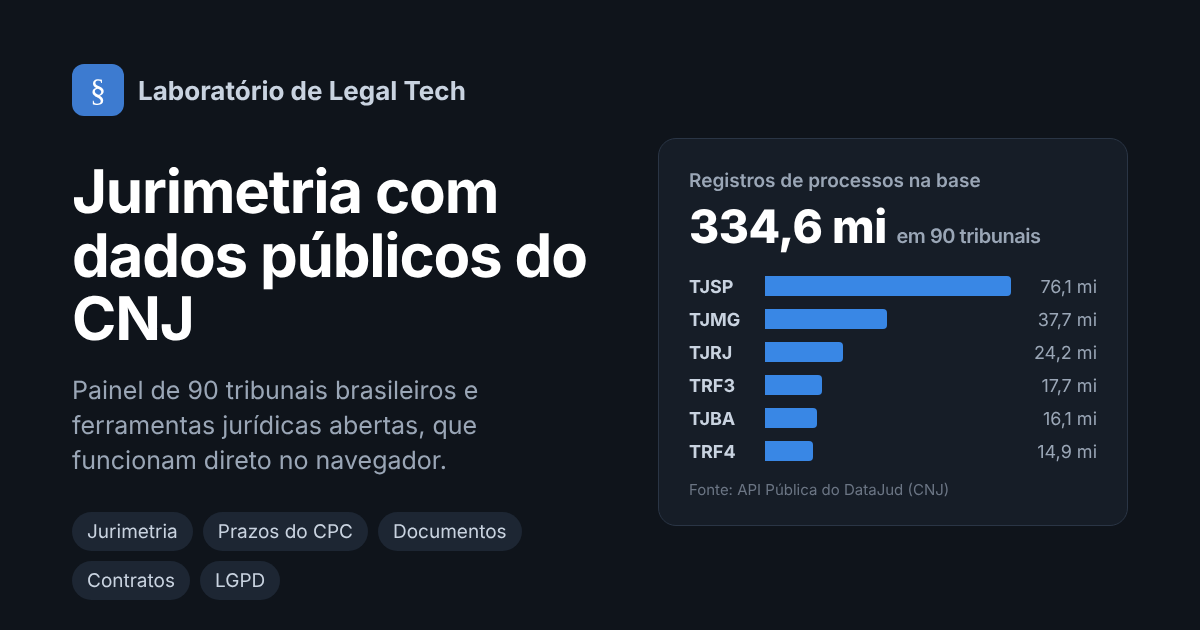
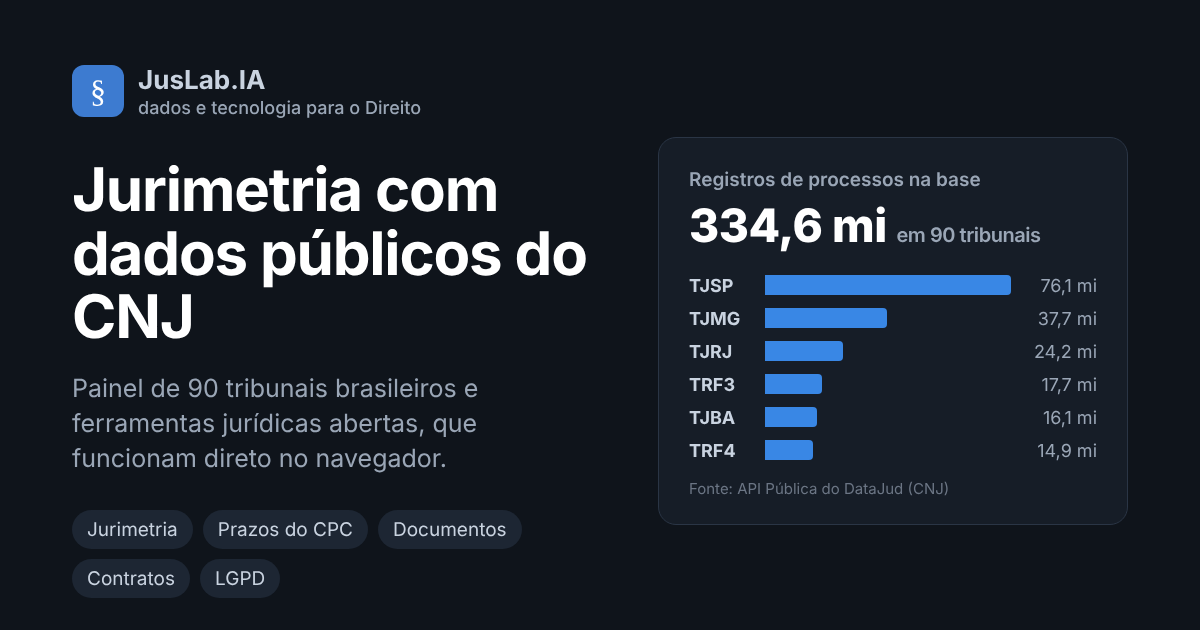
Renomeia o site para JusLab.IA
Nome novo com o subtítulo "dados e tecnologia para o Direito" no
cabeçalho, na página inicial, nos títulos e prévias de compartilhamento
(og.png refeita), no README, na página Sobre e no PRODID do .ics.
No celular, o botão de tema volta para a direita do cabeçalho.

Claude-Session: https://claude.ai/code/session_01G249qRGpUaRkBSdfc1K5pR

diff --git a/sobre/index.html b/sobre/index.html
@@ -4,18 +4,18 @@
   <meta charset="utf-8">
   <meta name="viewport" content="width=device-width, initial-scale=1">
   <title>Sobre o projeto</title>
-  <meta name="description" content="Como o Laboratório de Legal Tech foi construído: arquitetura, metodologia da jurimetria com dados do DataJud (CNJ), limitações dos dados e privacidade.">
+  <meta name="description" content="Como o JusLab.IA foi construído: arquitetura, metodologia da jurimetria com dados do DataJud (CNJ), limitações dos dados e privacidade.">
   <link rel="canonical" href="https://langcasagrande.github.io/dashboard-jurimetria/sobre/">
   <meta property="og:type" content="website">
   <meta property="og:locale" content="pt_BR">
-  <meta property="og:site_name" content="Laboratório de Legal Tech">
-  <meta property="og:title" content="Sobre o projeto · Laboratório de Legal Tech">
-  <meta property="og:description" content="Como o Laboratório de Legal Tech foi construído: arquitetura, metodologia da jurimetria com dados do DataJud (CNJ), limitações dos dados e privacidade.">
+  <meta property="og:site_name" content="JusLab.IA">
+  <meta property="og:title" content="Sobre o projeto · JusLab.IA">
+  <meta property="og:description" content="Como o JusLab.IA foi construído: arquitetura, metodologia da jurimetria com dados do DataJud (CNJ), limitações dos dados e privacidade.">
   <meta property="og:url" content="https://langcasagrande.github.io/dashboard-jurimetria/sobre/">
   <meta property="og:image" content="https://langcasagrande.github.io/dashboard-jurimetria/assets/og.png">
   <meta property="og:image:width" content="1200">
   <meta property="og:image:height" content="630">
-  <meta property="og:image:alt" content="Laboratório de Legal Tech: jurimetria com dados públicos do CNJ">
+  <meta property="og:image:alt" content="JusLab.IA: jurimetria com dados públicos do CNJ">
   <meta name="twitter:card" content="summary_large_image">
   <script>try{const t=localStorage.getItem('tema');if(t)document.documentElement.dataset.theme=t}catch(e){}</script>
   <link rel="stylesheet" href="../assets/css/style.css">
@@ -36,7 +36,7 @@
   <main class="prosa">
     <section class="page-head">
       <h1>Sobre o projeto</h1>
-      <p>O Laboratório de Legal Tech reúne seis ferramentas jurídicas abertas, construídas como projeto de estudo e portfólio na interseção entre Direito e tecnologia. Todas funcionam direto no navegador, sem cadastro.</p>
+      <p>O JusLab.IA (dados e tecnologia para o Direito) reúne seis ferramentas jurídicas abertas, construídas como projeto de estudo e portfólio na interseção entre Direito e tecnologia. Todas funcionam direto no navegador, sem cadastro.</p>
       <ul class="indice-pagina">
         <li><a href="#ferramentas">Ferramentas</a></li>
         <li><a href="#arquitetura">Como funciona</a></li>

diff --git a/index.html b/index.html
@@ -3,19 +3,19 @@
 <head>
   <meta charset="utf-8">
   <meta name="viewport" content="width=device-width, initial-scale=1">
-  <title>Laboratório de Legal Tech</title>
+  <title>JusLab.IA · Dados e tecnologia para o Direito</title>
   <meta name="description" content="Ferramentas jurídicas abertas: jurimetria com dados do CNJ, calculadora de prazos do CPC, gerador de documentos, analisador de contratos, assistente de legislação e kit LGPD.">
   <link rel="canonical" href="https://langcasagrande.github.io/dashboard-jurimetria/">
   <meta property="og:type" content="website">
   <meta property="og:locale" content="pt_BR">
-  <meta property="og:site_name" content="Laboratório de Legal Tech">
-  <meta property="og:title" content="Laboratório de Legal Tech">
+  <meta property="og:site_name" content="JusLab.IA">
+  <meta property="og:title" content="JusLab.IA · Dados e tecnologia para o Direito">
   <meta property="og:description" content="Ferramentas jurídicas abertas: jurimetria com dados do CNJ, calculadora de prazos do CPC, gerador de documentos, analisador de contratos, assistente de legislação e kit LGPD.">
   <meta property="og:url" content="https://langcasagrande.github.io/dashboard-jurimetria/">
   <meta property="og:image" content="https://langcasagrande.github.io/dashboard-jurimetria/assets/og.png">
   <meta property="og:image:width" content="1200">
   <meta property="og:image:height" content="630">
-  <meta property="og:image:alt" content="Laboratório de Legal Tech: jurimetria com dados públicos do CNJ">
+  <meta property="og:image:alt" content="JusLab.IA: jurimetria com dados públicos do CNJ">
   <meta name="twitter:card" content="summary_large_image">
   <script>try{const t=localStorage.getItem('tema');if(t)document.documentElement.dataset.theme=t}catch(e){}</script>
   <link rel="stylesheet" href="assets/css/style.css">
@@ -23,7 +23,8 @@
 <body data-base="./" data-page="inicio">
   <main>
     <section class="page-head">
-      <h1>Laboratório de Legal Tech</h1>
+      <h1>JusLab.IA</h1>
+      <p class="tagline">Dados e tecnologia para o Direito</p>
       <p>Seis ferramentas jurídicas abertas, feitas para estudo e portfólio. Os dados que você digita ficam no seu navegador. Nada é enviado a um servidor, salvo quando você usa os recursos de IA com a sua própria chave. <a href="sobre/">Saiba como o projeto foi feito.</a></p>
     </section>
 

diff --git a/assets/css/style.css b/assets/css/style.css
@@ -1,4 +1,4 @@
-/* Laboratório de Legal Tech — estilos compartilhados */
+/* JusLab.IA — estilos compartilhados */
 :root {
   --bg: #f6f7f9;
   --surface: #ffffff;
@@ -53,12 +53,16 @@ code { font-family: var(--mono); font-size: .9em; background: var(--surface-2); 
 .topbar { position: sticky; top: 0; z-index: 10; background: var(--surface); border-bottom: 1px solid var(--border); }
 .topbar-inner { max-width: 1180px; margin: 0 auto; display: flex; align-items: center; gap: 1rem; padding: .6rem 16px; }
 .brand { display: flex; align-items: center; gap: .55rem; font-weight: 700; color: var(--text); text-decoration: none; white-space: nowrap; }
+.brand-text { display: flex; flex-direction: column; line-height: 1.15; }
+.brand-text small { font-weight: 400; font-size: .72rem; color: var(--muted); }
+.tagline { font-size: 1.05rem; color: var(--primary) !important; font-weight: 600; margin: -.2rem 0 .6rem; }
 .brand-mark { width: 30px; height: 30px; border-radius: 8px; background: var(--primary); color: var(--primary-ink); display: grid; place-items: center; font-size: 16px; }
 .nav { display: flex; gap: .15rem; flex: 1; overflow-x: auto; scrollbar-width: none; }
 .nav::-webkit-scrollbar { display: none; }
 .nav a { padding: .45rem .7rem; border-radius: 8px; color: var(--muted); text-decoration: none; white-space: nowrap; font-size: .92rem; }
 .nav a:hover { background: var(--surface-2); color: var(--text); }
 .nav a[aria-current="page"] { background: var(--primary-soft); color: var(--primary); font-weight: 600; }
+.topbar-inner > .icon-btn { margin-left: auto; }
 .icon-btn { border: 1px solid var(--border); background: var(--surface); color: var(--text); border-radius: 8px; width: 36px; height: 36px; cursor: pointer; font-size: 16px; flex: none; }
 @media (max-width: 760px) {
   .topbar-inner { flex-wrap: wrap; }

diff --git a/jurimetria/index.html b/jurimetria/index.html
@@ -8,14 +8,14 @@
   <link rel="canonical" href="https://langcasagrande.github.io/dashboard-jurimetria/jurimetria/">
   <meta property="og:type" content="website">
   <meta property="og:locale" content="pt_BR">
-  <meta property="og:site_name" content="Laboratório de Legal Tech">
-  <meta property="og:title" content="Dashboard de Jurimetria · Laboratório de Legal Tech">
+  <meta property="og:site_name" content="JusLab.IA">
+  <meta property="og:title" content="Dashboard de Jurimetria · JusLab.IA">
   <meta property="og:description" content="Estatísticas de processos de 90 tribunais brasileiros com dados públicos do CNJ (DataJud): volume, ajuizamentos por ano e por mês, classes, assuntos, órgãos julgadores e comparação entre tribunais.">
   <meta property="og:url" content="https://langcasagrande.github.io/dashboard-jurimetria/jurimetria/">
   <meta property="og:image" content="https://langcasagrande.github.io/dashboard-jurimetria/assets/og.png">
   <meta property="og:image:width" content="1200">
   <meta property="og:image:height" content="630">
-  <meta property="og:image:alt" content="Laboratório de Legal Tech: jurimetria com dados públicos do CNJ">
+  <meta property="og:image:alt" content="JusLab.IA: jurimetria com dados públicos do CNJ">
   <meta name="twitter:card" content="summary_large_image">
   <script>try{const t=localStorage.getItem('tema');if(t)document.documentElement.dataset.theme=t}catch(e){}</script>
   <link rel="stylesheet" href="../assets/css/style.css">

diff --git a/contratos/index.html b/contratos/index.html
@@ -8,14 +8,14 @@
   <link rel="canonical" href="https://langcasagrande.github.io/dashboard-jurimetria/contratos/">
   <meta property="og:type" content="website">
   <meta property="og:locale" content="pt_BR">
-  <meta property="og:site_name" content="Laboratório de Legal Tech">
-  <meta property="og:title" content="Analisador de Contratos · Laboratório de Legal Tech">
+  <meta property="og:site_name" content="JusLab.IA">
+  <meta property="og:title" content="Analisador de Contratos · JusLab.IA">
   <meta property="og:description" content="Aponta cláusulas de risco em contratos (multa, juros, renovação automática, foro, arbitragem, limitação de responsabilidade) com fundamento legal e sugestão de redação.">
   <meta property="og:url" content="https://langcasagrande.github.io/dashboard-jurimetria/contratos/">
   <meta property="og:image" content="https://langcasagrande.github.io/dashboard-jurimetria/assets/og.png">
   <meta property="og:image:width" content="1200">
   <meta property="og:image:height" content="630">
-  <meta property="og:image:alt" content="Laboratório de Legal Tech: jurimetria com dados públicos do CNJ">
+  <meta property="og:image:alt" content="JusLab.IA: jurimetria com dados públicos do CNJ">
   <meta name="twitter:card" content="summary_large_image">
   <script>try{const t=localStorage.getItem('tema');if(t)document.documentElement.dataset.theme=t}catch(e){}</script>
   <link rel="stylesheet" href="../assets/css/style.css">

diff --git a/documentos/index.html b/documentos/index.html
@@ -8,14 +8,14 @@
   <link rel="canonical" href="https://langcasagrande.github.io/dashboard-jurimetria/documentos/">
   <meta property="og:type" content="website">
   <meta property="og:locale" content="pt_BR">
-  <meta property="og:site_name" content="Laboratório de Legal Tech">
-  <meta property="og:title" content="Gerador de Documentos · Laboratório de Legal Tech">
+  <meta property="og:site_name" content="JusLab.IA">
+  <meta property="og:title" content="Gerador de Documentos · JusLab.IA">
   <meta property="og:description" content="Gere procuração, substabelecimento, contrato de honorários, notificação extrajudicial e declaração de hipossuficiência prontos para imprimir ou baixar em Word.">
   <meta property="og:url" content="https://langcasagrande.github.io/dashboard-jurimetria/documentos/">
   <meta property="og:image" content="https://langcasagrande.github.io/dashboard-jurimetria/assets/og.png">
   <meta property="og:image:width" content="1200">
   <meta property="og:image:height" content="630">
-  <meta property="og:image:alt" content="Laboratório de Legal Tech: jurimetria com dados públicos do CNJ">
+  <meta property="og:image:alt" content="JusLab.IA: jurimetria com dados públicos do CNJ">
   <meta name="twitter:card" content="summary_large_image">
   <script>try{const t=localStorage.getItem('tema');if(t)document.documentElement.dataset.theme=t}catch(e){}</script>
   <link rel="stylesheet" href="../assets/css/style.css">

diff --git a/prazos/index.html b/prazos/index.html
@@ -8,14 +8,14 @@
   <link rel="canonical" href="https://langcasagrande.github.io/dashboard-jurimetria/prazos/">
   <meta property="og:type" content="website">
   <meta property="og:locale" content="pt_BR">
-  <meta property="og:site_name" content="Laboratório de Legal Tech">
-  <meta property="og:title" content="Calculadora de Prazos · Laboratório de Legal Tech">
+  <meta property="og:site_name" content="JusLab.IA">
+  <meta property="og:title" content="Calculadora de Prazos · JusLab.IA">
   <meta property="og:description" content="Calcula prazos processuais em dias úteis conforme o CPC, com feriados, recesso de 20/12 a 20/01, prazo em dobro e intimação pelo DJe ou portal.">
   <meta property="og:url" content="https://langcasagrande.github.io/dashboard-jurimetria/prazos/">
   <meta property="og:image" content="https://langcasagrande.github.io/dashboard-jurimetria/assets/og.png">
   <meta property="og:image:width" content="1200">
   <meta property="og:image:height" content="630">
-  <meta property="og:image:alt" content="Laboratório de Legal Tech: jurimetria com dados públicos do CNJ">
+  <meta property="og:image:alt" content="JusLab.IA: jurimetria com dados públicos do CNJ">
   <meta name="twitter:card" content="summary_large_image">
   <script>try{const t=localStorage.getItem('tema');if(t)document.documentElement.dataset.theme=t}catch(e){}</script>
   <link rel="stylesheet" href="../assets/css/style.css">

diff --git a/legislacao/index.html b/legislacao/index.html
@@ -8,14 +8,14 @@
   <link rel="canonical" href="https://langcasagrande.github.io/dashboard-jurimetria/legislacao/">
   <meta property="og:type" content="website">
   <meta property="og:locale" content="pt_BR">
-  <meta property="og:site_name" content="Laboratório de Legal Tech">
-  <meta property="og:title" content="Assistente de Legislação · Laboratório de Legal Tech">
+  <meta property="og:site_name" content="JusLab.IA">
+  <meta property="og:title" content="Assistente de Legislação · JusLab.IA">
   <meta property="og:description" content="Pergunte sobre a legislação brasileira e receba respostas com o artigo citado e o link para o texto oficial no Planalto.">
   <meta property="og:url" content="https://langcasagrande.github.io/dashboard-jurimetria/legislacao/">
   <meta property="og:image" content="https://langcasagrande.github.io/dashboard-jurimetria/assets/og.png">
   <meta property="og:image:width" content="1200">
   <meta property="og:image:height" content="630">
-  <meta property="og:image:alt" content="Laboratório de Legal Tech: jurimetria com dados públicos do CNJ">
+  <meta property="og:image:alt" content="JusLab.IA: jurimetria com dados públicos do CNJ">
   <meta name="twitter:card" content="summary_large_image">
   <script>try{const t=localStorage.getItem('tema');if(t)document.documentElement.dataset.theme=t}catch(e){}</script>
   <link rel="stylesheet" href="../assets/css/style.css">

diff --git a/lgpd/index.html b/lgpd/index.html
@@ -8,14 +8,14 @@
   <link rel="canonical" href="https://langcasagrande.github.io/dashboard-jurimetria/lgpd/">
   <meta property="og:type" content="website">
   <meta property="og:locale" content="pt_BR">
-  <meta property="og:site_name" content="Laboratório de Legal Tech">
-  <meta property="og:title" content="Kit LGPD · Laboratório de Legal Tech">
+  <meta property="og:site_name" content="JusLab.IA">
+  <meta property="og:title" content="Kit LGPD · JusLab.IA">
   <meta property="og:description" content="Checklist de adequação à LGPD com nota de maturidade e gerador de política de privacidade para pequenas empresas.">
   <meta property="og:url" content="https://langcasagrande.github.io/dashboard-jurimetria/lgpd/">
   <meta property="og:image" content="https://langcasagrande.github.io/dashboard-jurimetria/assets/og.png">
   <meta property="og:image:width" content="1200">
   <meta property="og:image:height" content="630">
-  <meta property="og:image:alt" content="Laboratório de Legal Tech: jurimetria com dados públicos do CNJ">
+  <meta property="og:image:alt" content="JusLab.IA: jurimetria com dados públicos do CNJ">
   <meta name="twitter:card" content="summary_large_image">
   <script>try{const t=localStorage.getItem('tema');if(t)document.documentElement.dataset.theme=t}catch(e){}</script>
   <link rel="stylesheet" href="../assets/css/style.css">

diff --git a/assets/js/common.js b/assets/js/common.js
@@ -1,4 +1,4 @@
-// Laboratório de Legal Tech — cabeçalho, tema e utilitários compartilhados.
+// JusLab.IA — cabeçalho, tema e utilitários compartilhados.
 (function () {
   const base = document.body.dataset.base || './';
   const page = document.body.dataset.page || 'inicio';
@@ -39,7 +39,7 @@
     <div class="topbar-inner">
       <a class="brand" href="${base}">
         <span class="brand-mark" aria-hidden="true">§</span>
-        <span class="brand-text">Laboratório de Legal Tech</span>
+        <span class="brand-text">JusLab.IA<small>dados e tecnologia para o Direito</small></span>
       </a>
       <nav class="nav" aria-label="Ferramentas">
         ${TOOLS.map(t => `<a href="${base}${t.href}"${t.id === page ? ' aria-current="page"' : ''}>${t.label}</a>`).join('')}

diff --git a/prazos/prazos.js b/prazos/prazos.js
@@ -114,7 +114,7 @@
     const stamp = new Date().toISOString().replace(/[-:]/g, '').replace(/\.\d+Z$/, 'Z');
     const titulo = `Vencimento: ${ato.dias ? ato.nome : 'prazo processual'}`;
     const ics = [
-      'BEGIN:VCALENDAR', 'VERSION:2.0', 'PRODID:-//Laboratorio de Legal Tech//Prazos//PT-BR', 'BEGIN:VEVENT',
+      'BEGIN:VCALENDAR', 'VERSION:2.0', 'PRODID:-//JusLab.IA//Prazos//PT-BR', 'BEGIN:VEVENT',
       `UID:${ymd(r.vencimento)}-${Math.random().toString(36).slice(2)}@legaltech`, `DTSTAMP:${stamp}`,
       `DTSTART;VALUE=DATE:${ymd(r.vencimento)}`, `DTEND;VALUE=DATE:${ymd(fim)}`,
       `SUMMARY:${titulo}`, `DESCRIPTION:Prazo de ${r.total} dias. Início da contagem: ${LT.fmtDate(r.inicio)}.`,

diff --git a/CLAUDE.md b/CLAUDE.md
@@ -28,7 +28,7 @@ Projeto de portfólio (legal tech): dashboard com estatísticas de processos jud
 - Compartilhamento: `assets/og.png` (1200×630, gerada a partir de HTML) + tags Open Graph/canonical em todas as páginas, `robots.txt` e `sitemap.xml` apontando para `https://langcasagrande.github.io/dashboard-jurimetria/` (trocar se usar domínio próprio).
 - SDK da Anthropic fixado em `@anthropic-ai/sdk@1.6.0` (`assets/js/ia.js`): versões com pelo menos 2 semanas de publicação; API conferida contra a 1.4.0.
 - `tre-dft` responde 404 (índice inexistente na API); conferir o alias certo na wiki do DataJud.
-- Ainda não publicado. Nome do site ("Laboratório de Legal Tech") pode mudar; o usuário quer ver opções.
+- Ainda não publicado. Nome do site: **JusLab.IA**, subtítulo "dados e tecnologia para o Direito" (escolhido em 2026-11-23; antes era "Laboratório de Legal Tech"). Ao mudar o nome, atualizar também `assets/og.png` (gerada de HTML), as tags og:* e o PRODID do .ics em `prazos/prazos.js`.
 - Arquivos pessoais (currículos em PDF) não pertencem a esta pasta; `.gitignore` bloqueia `*.pdf` e `*.docx`.
 
 ## Ambiente local
